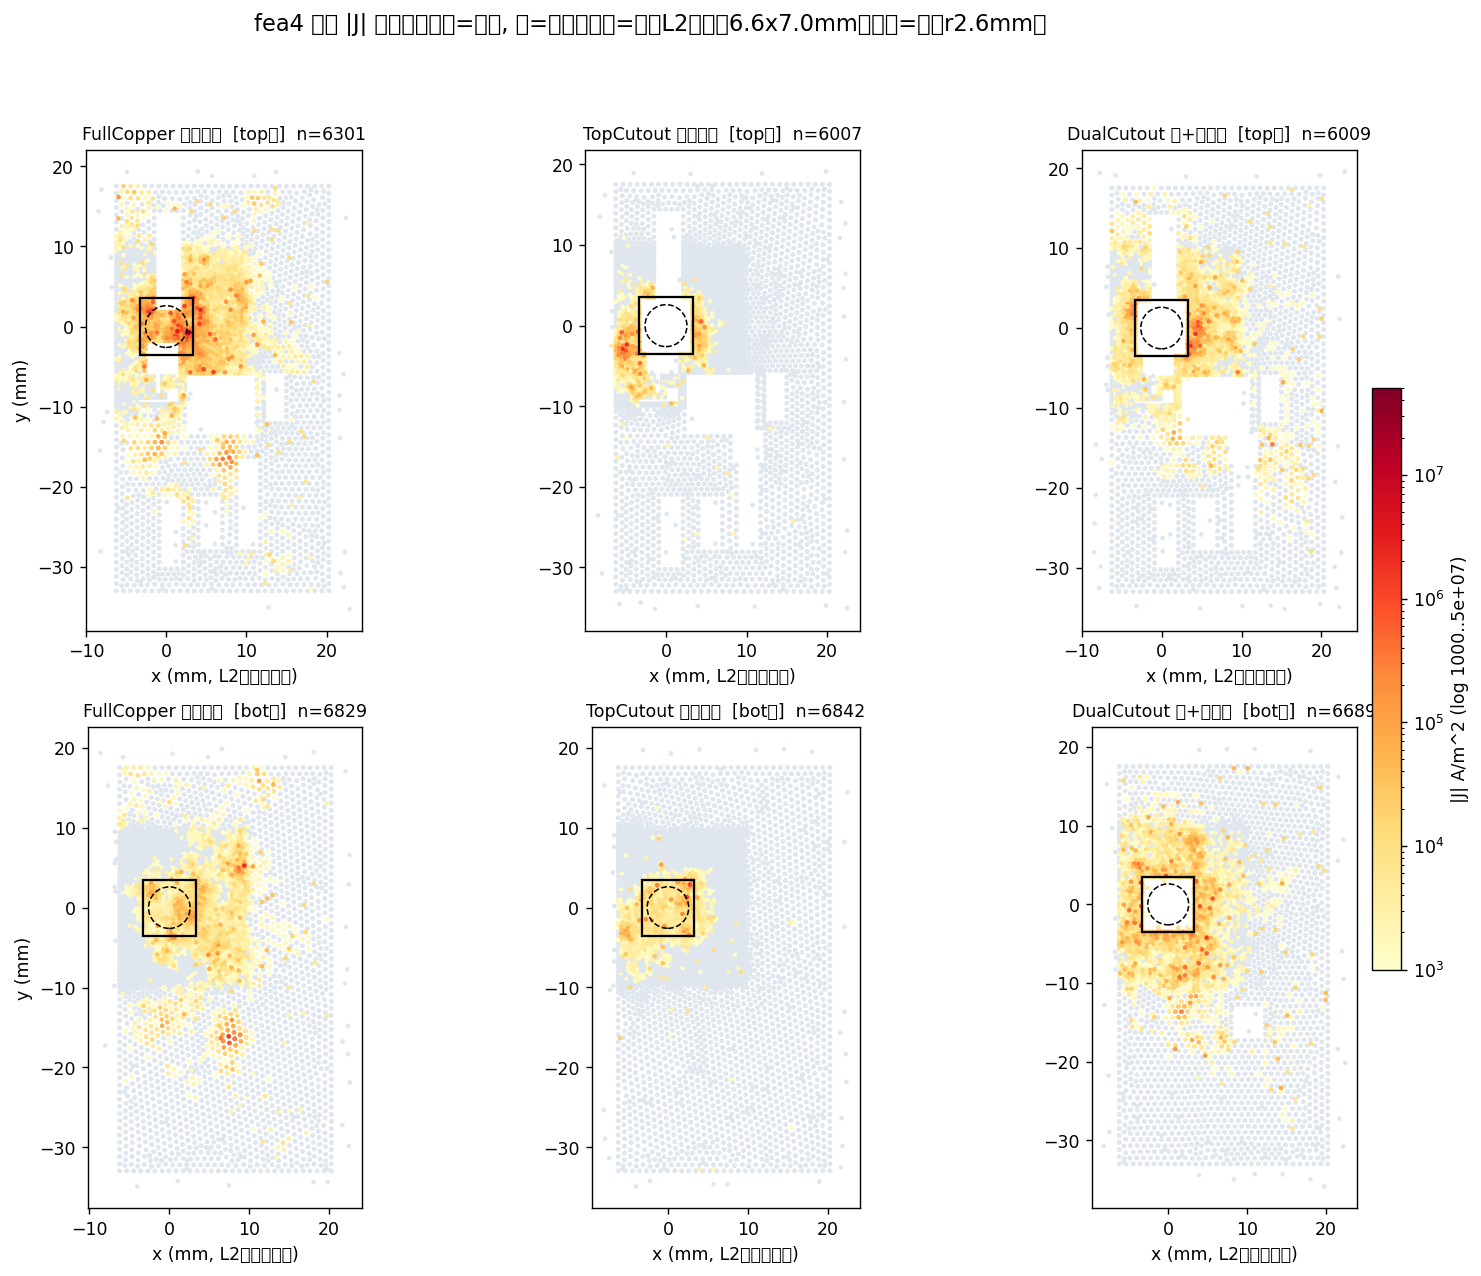
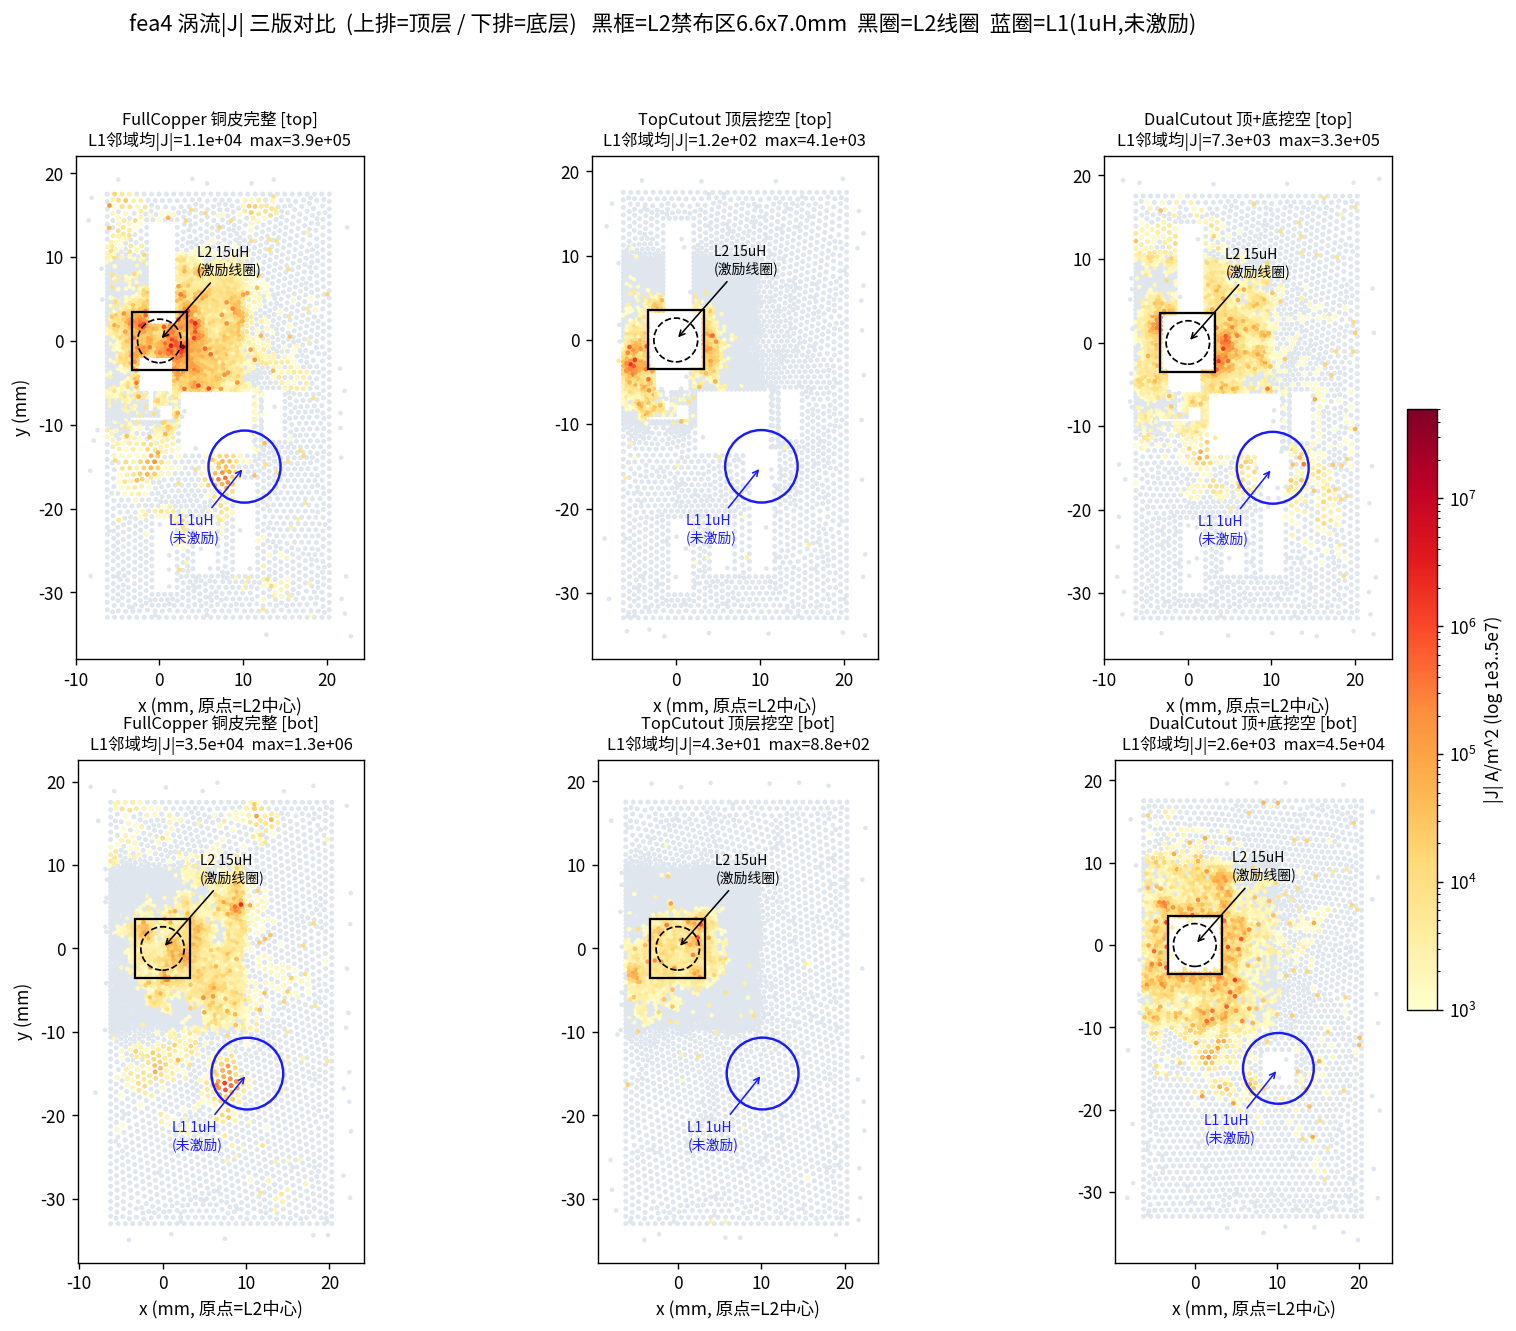
04: 标注双电感L1/L2 + 更新可读重绘图 + L1未激励局限

diff --git a/results/04-cut-variants/README.md b/results/04-cut-variants/README.md
@@ -15,3 +15,13 @@
 
 **局限**：板厚 1.0mm（估值）、µr=40（fea3 估值）、REGION 外接矩形近似、网格较 fea3 略粗。
 **口径提醒**：本目录 FullCopper 为「顶+底两层」重建，与 `results/03`（仅顶层，\|J\|max 2.9e7）不同口径。
+
+## ⚠ 重要局限：板上有两个电感，本模型只激励了 L2
+| 电感 | 型号 | 角色 | 本模型 |
+|---|---|---|---|
+| **L2** | ZEMS0650-150M (15µH) | buck **输出**电感，位于坐标原点 | ✅ **被激励**（黑框/虚线标注） |
+| **L1** | FXL0420-1R0-M (1µH) | **输入滤波**电感，约 (10.2, −15.0) mm | ❌ **未激励** |
+
+- 图中 L1 邻域（蓝圈）的 |J| **只是 L2 场衰减的贡献，不是 L1 自身涡流**；L1 同样流过开关纹波电流、也会在铜中产生涡流 → **当前未计入**。
+- 观测：L1 邻域均 |J| FullCopper **1.1e4** → TopCutout **1.2e2**（降近 100×）→ 说明 L2 下方开洞会**打断 14mm 外区域的回流路径**。
+- 待办 **fea5**：同时激励 L1+L2。
